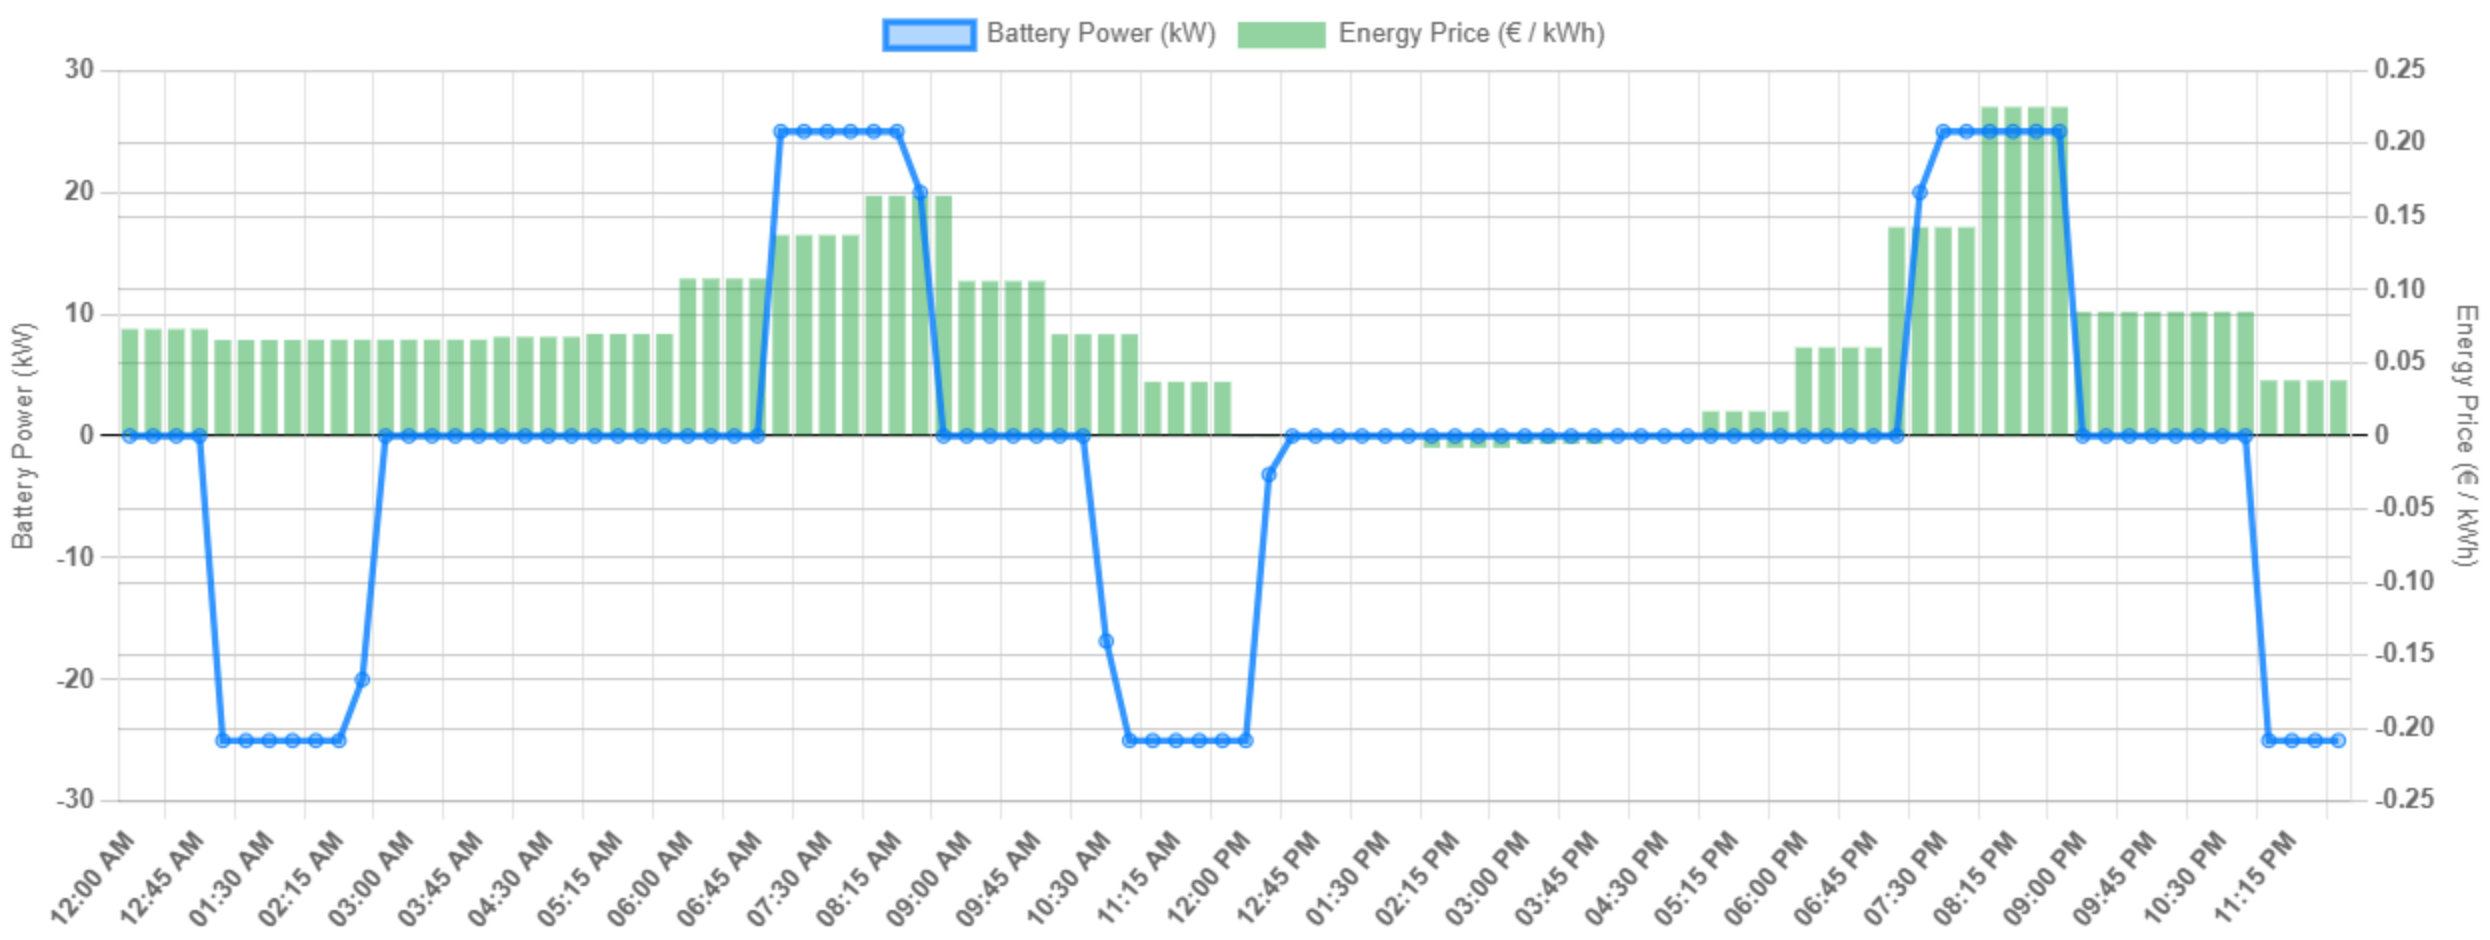
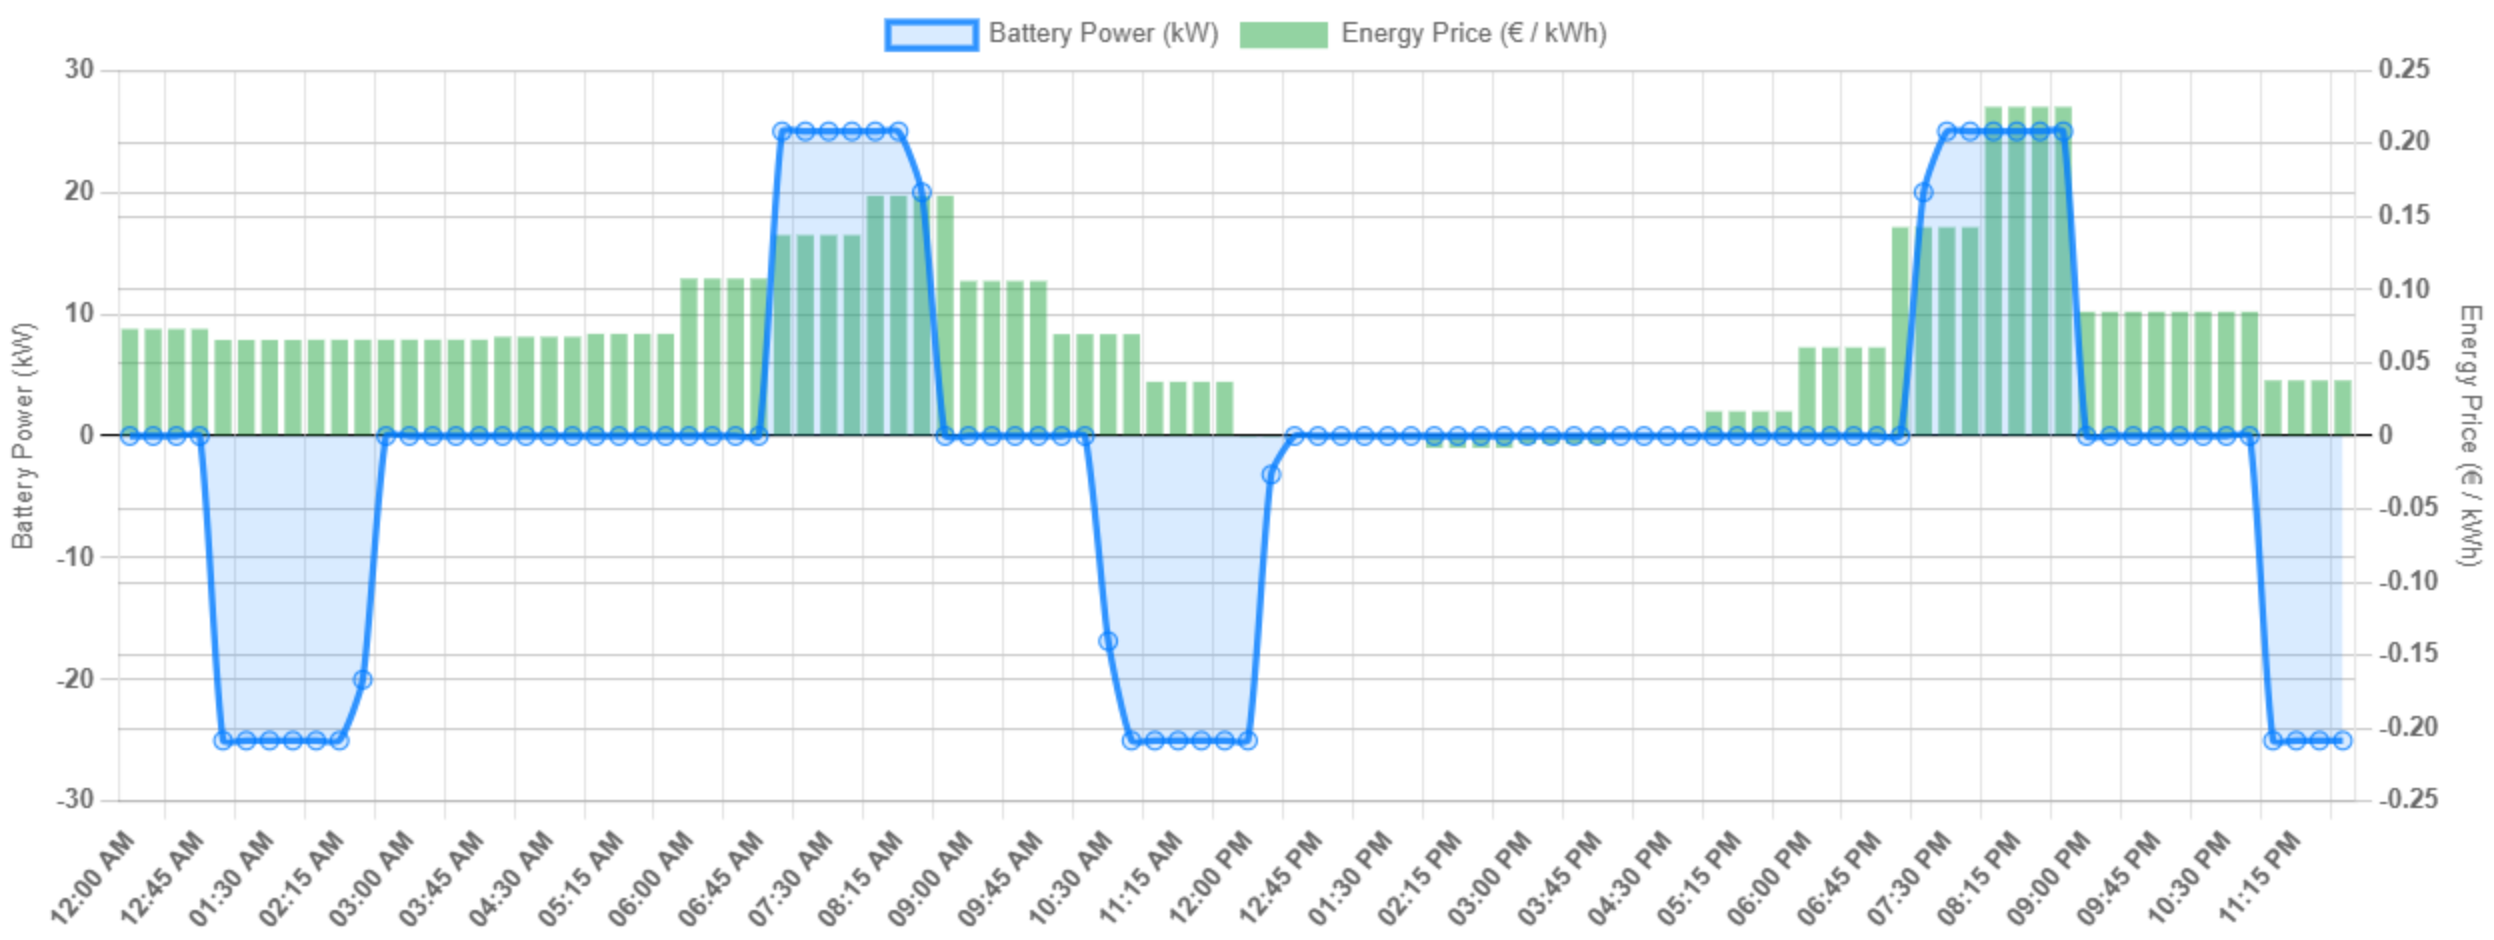
areas colored on both line charts - first and and second

Changed region(s): [[0.0309, 0.1234, 0.9896, 0.8021], [0.3402, 0.0309, 0.402, 0.0617]]

diff --git a/resources/views/plants/partials/plant-chart.blade.php b/resources/views/plants/partials/plant-chart.blade.php
@@ -201,6 +201,7 @@ const verticalLinePlugin = {
     }
 };
 
+// Register the verticalLinePlugin for all charts
 Chart.register(verticalLinePlugin);
 
 </script>
@@ -351,16 +352,19 @@ Chart.register(verticalLinePlugin);
                 labels,
                 datasets: [
                     {
-                        type: 'line', // ✅ Change this!
+                        type: 'line',
                         label: 'Battery Power (kW)',
                         data: batteryDataKW,
                         borderColor: 'rgba(0,123,255,0.8)',
-                        backgroundColor: 'rgba(0,123,255,0.3)',
-                        fill: false,
+                        backgroundColor: 'rgba(0,123,255,0.15)',
+                        fill: true,
                         yAxisID: 'y',
+                        pointRadius: 4,
+                        pointHoverRadius: 8,
+                        tension: 0.2
                     },
                     {
-                        type: 'bar', // ✅ Keep bar
+                        type: 'bar',
                         label: 'Energy Price (€ / kWh)',
                         data: tariffData,
                         backgroundColor: 'rgba(40,167,69,0.5)',
@@ -370,7 +374,17 @@ Chart.register(verticalLinePlugin);
             },
             options: {
                 responsive: true,
-                plugins: { legend: { position: 'top' } },
+                plugins: {
+                    legend: { position: 'top' }
+                },
+                interaction: {
+                    mode: 'index',
+                    intersect: false
+                },
+                hover: {
+                    mode: 'index',
+                    intersect: false
+                },
                 scales: {
                     y: {
                         type: 'linear',
